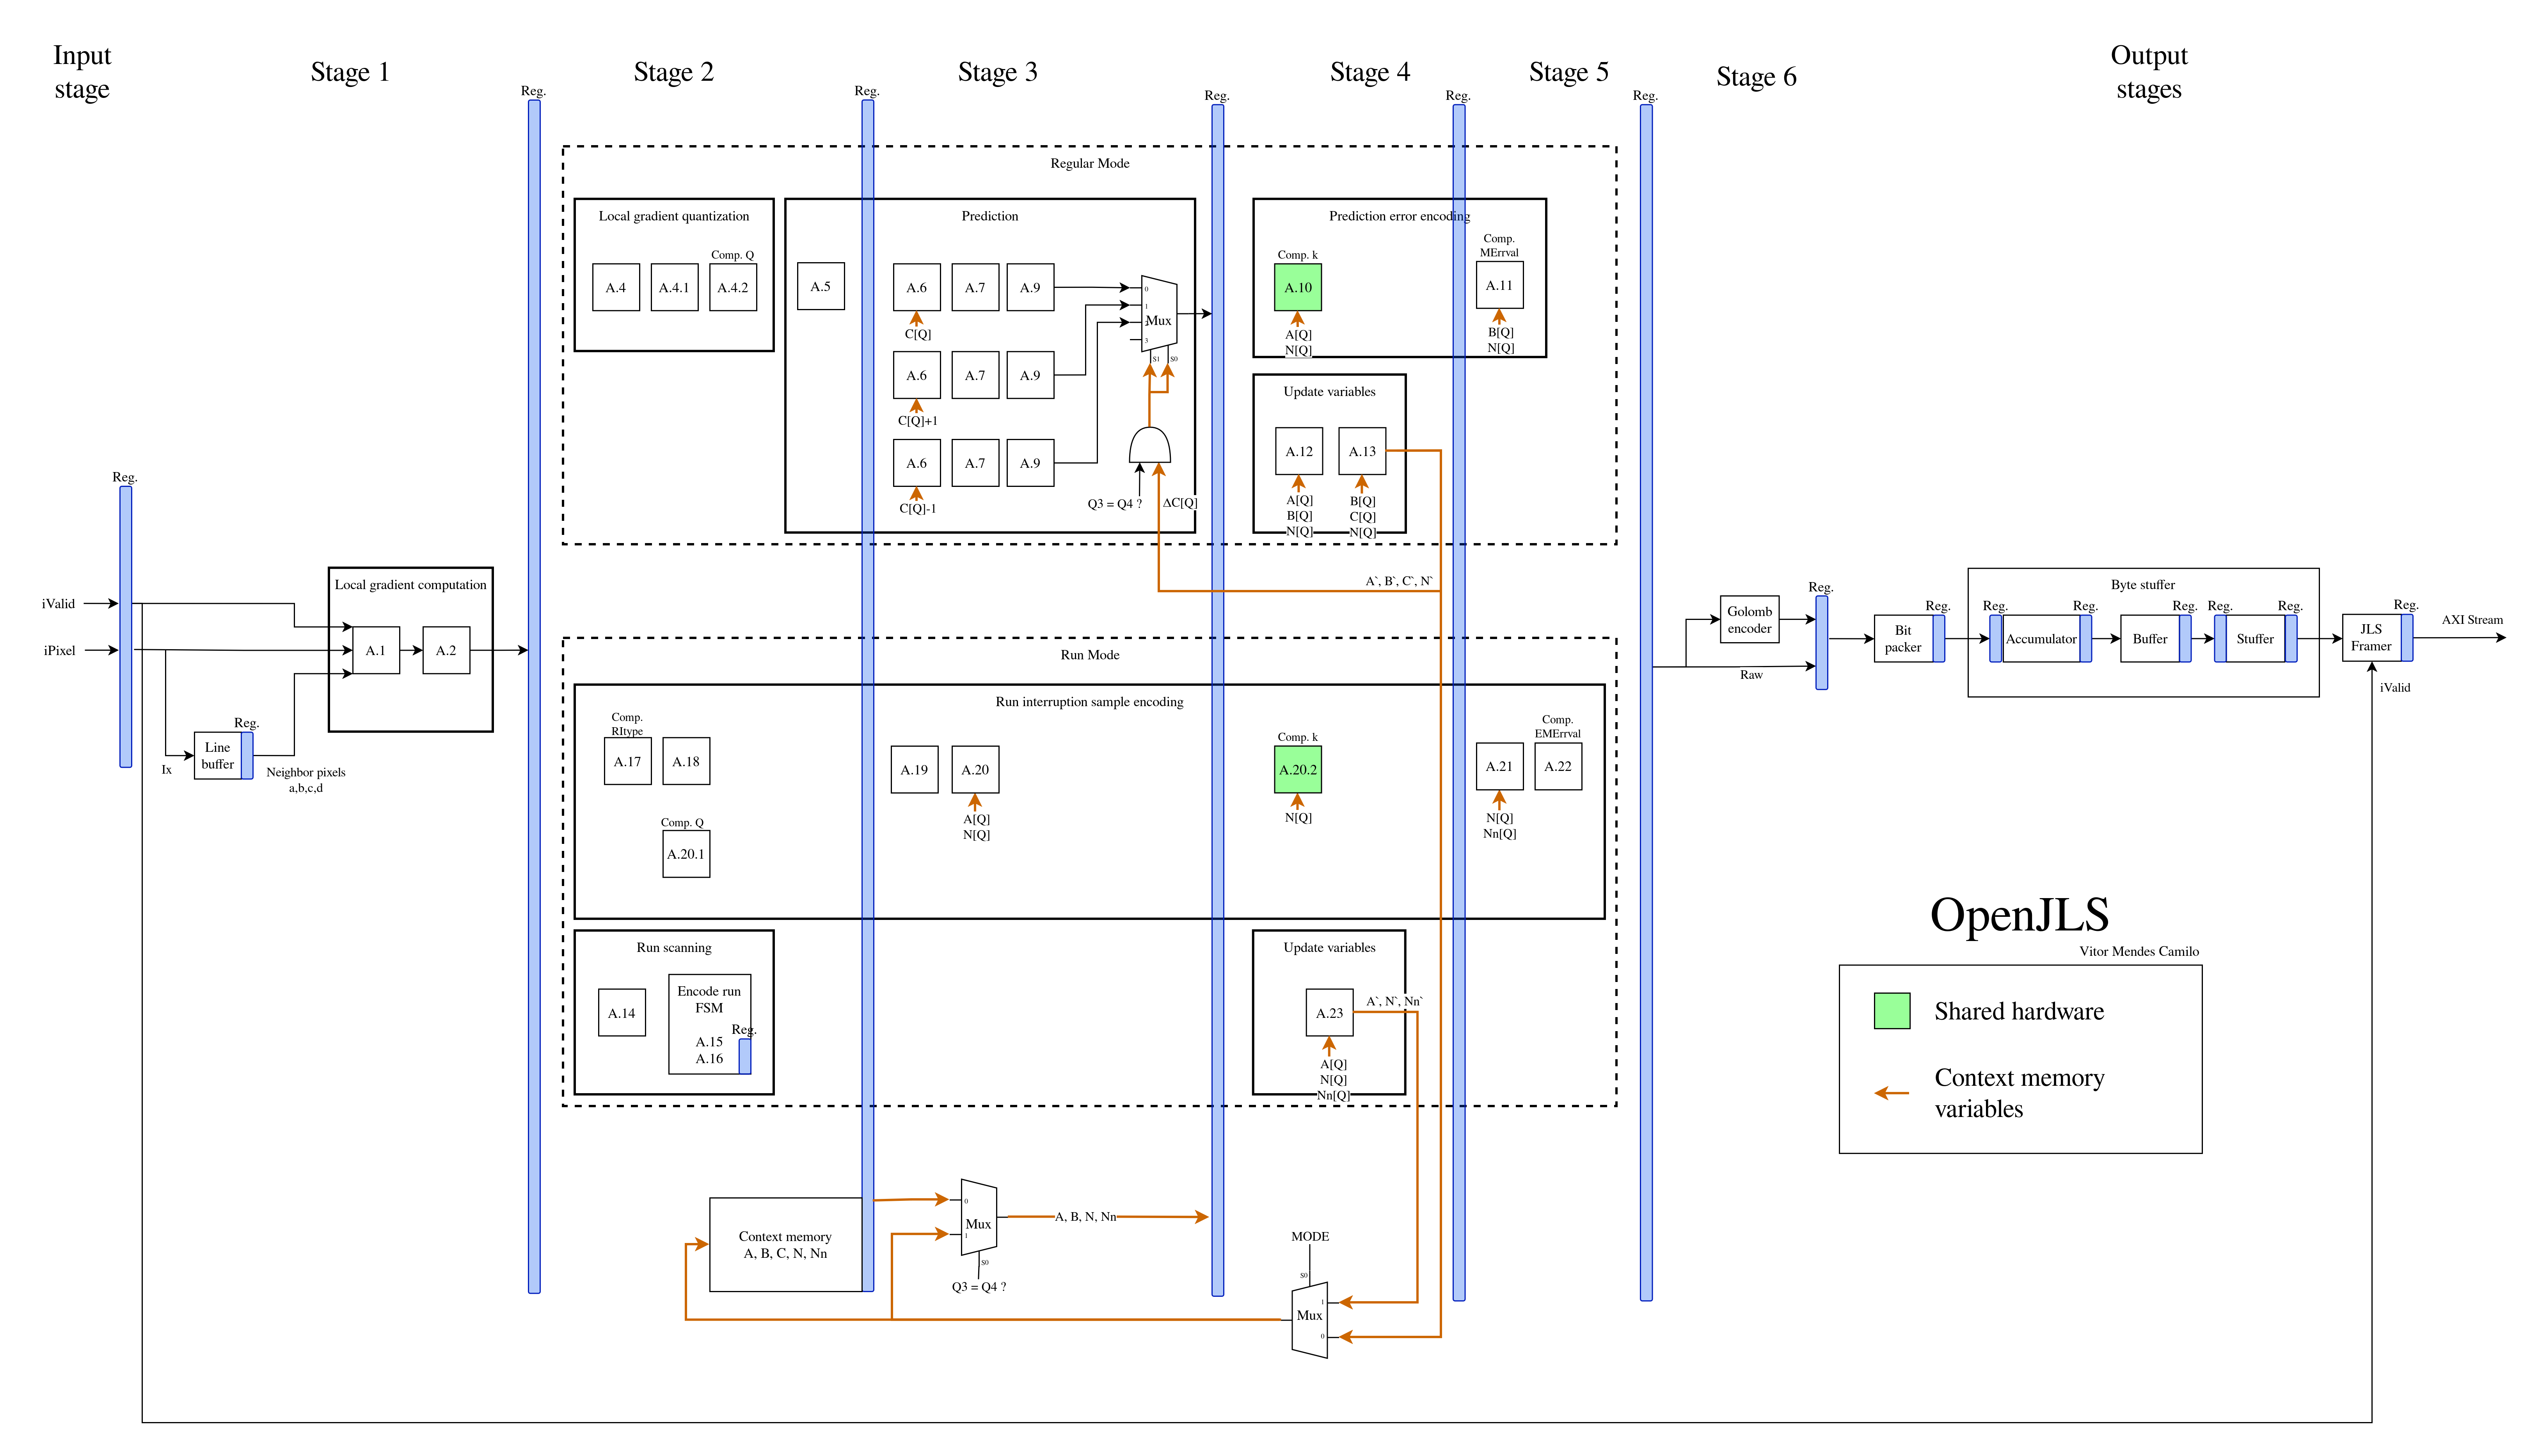
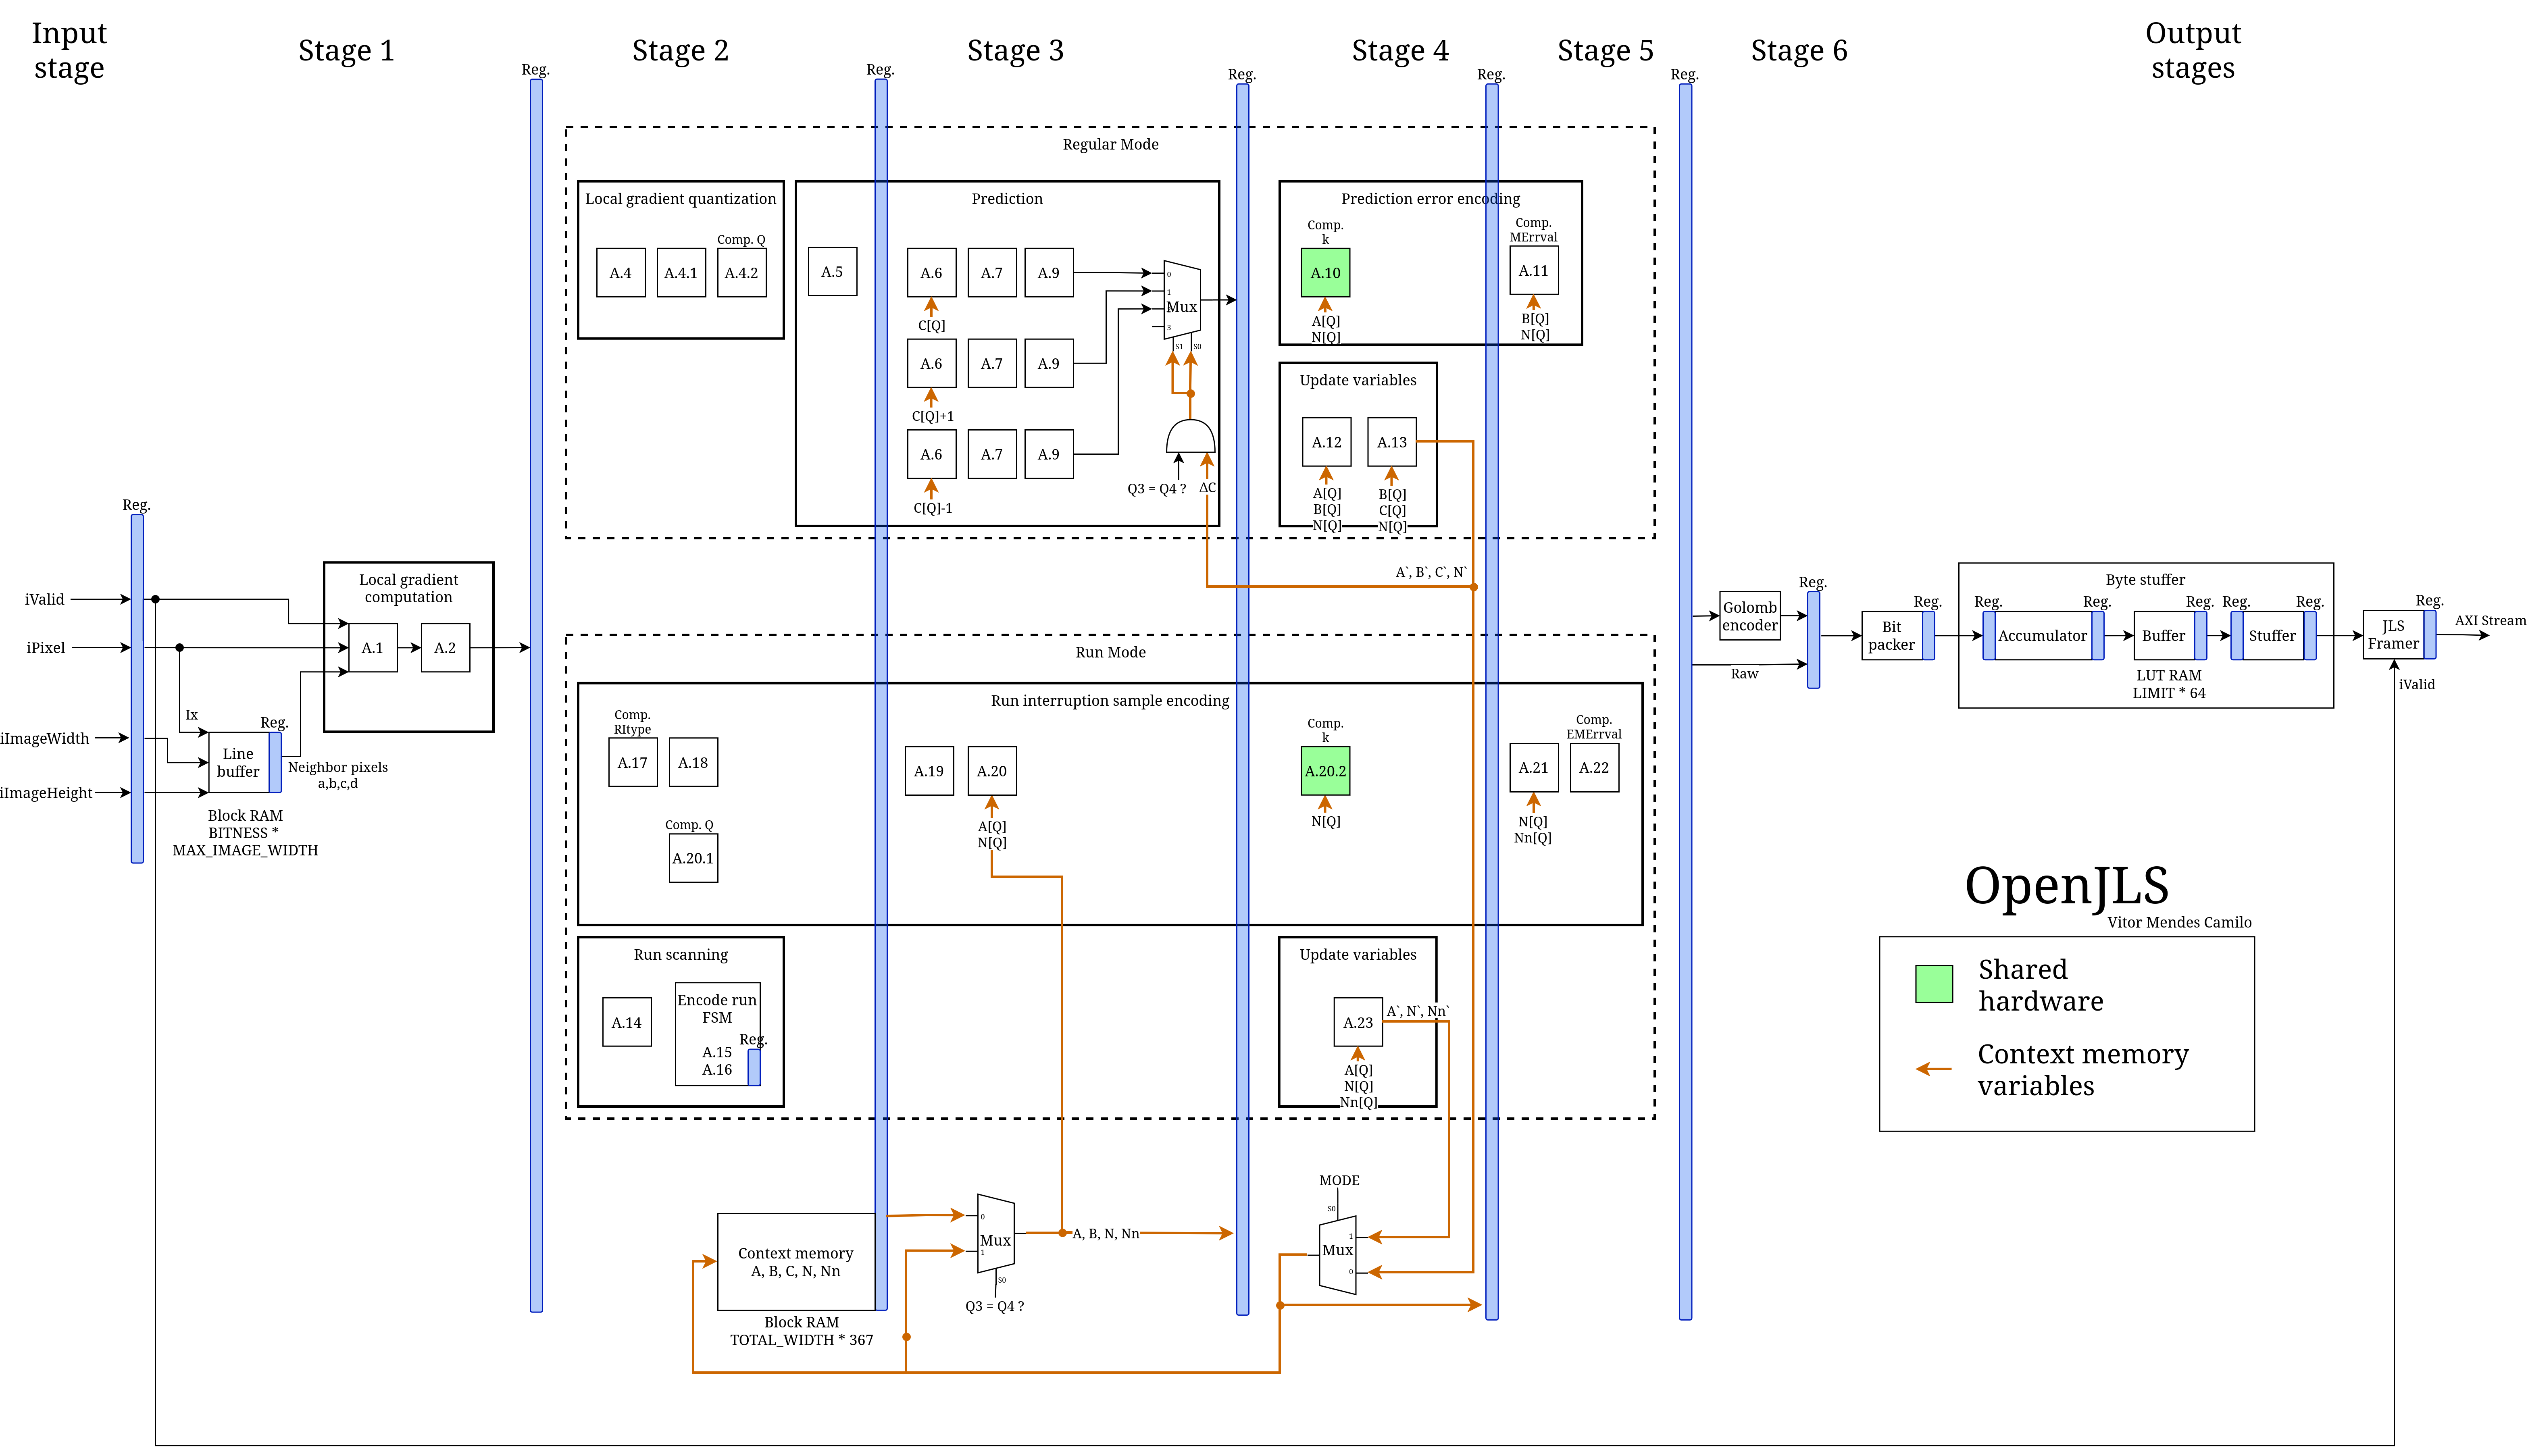
Add LaTeX datasheet and document the openjls_top interface
The datasheet is the v1.0 user-facing integration reference; README gains
a summary Interface section that links to it for the full detail.

diff --git a/Docs/datasheet/openjls_datasheet.tex b/Docs/datasheet/openjls_datasheet.tex
@@ -1,0 +1,270 @@
+% OpenJLS datasheet. Build: tectonic openjls_datasheet.tex
+\documentclass[10pt,a4paper]{article}
+
+\usepackage[margin=22mm]{geometry}
+\usepackage{amsmath}
+\usepackage{graphicx}
+\usepackage{booktabs}
+\usepackage{array}
+\usepackage{tabularx}
+\usepackage{xcolor}
+\usepackage{enumitem}
+\usepackage{fancyhdr}
+\usepackage{listings}
+\usepackage{tikz}
+\usepackage{tikz-timing}
+\usepackage[hidelinks]{hyperref}
+
+\graphicspath{{../Images/}}
+\setlist{nosep,leftmargin=1.4em}
+\newcolumntype{C}{>{\centering\arraybackslash}m{0.10\textwidth}}
+\renewcommand{\arraystretch}{1.15}
+
+\definecolor{ojblue}{RGB}{0,80,140}
+
+\lstset{
+  basicstyle=\ttfamily\footnotesize,
+  keywordstyle=\color{ojblue}\bfseries,
+  commentstyle=\color{gray},
+  language=VHDL,
+  showstringspaces=false,
+  frame=single,
+  columns=fullflexible,
+}
+
+\pagestyle{fancy}
+\fancyhf{}
+\lhead{\textbf{OpenJLS} — JPEG-LS Encoder IP}
+\rhead{Datasheet}
+\lfoot{\small v1.0}
+\rfoot{\small \thepage}
+\renewcommand{\headrulewidth}{0.4pt}
+
+\setcounter{secnumdepth}{1}
+
+\begin{document}
+
+\begin{center}
+  {\LARGE\bfseries OpenJLS}\\[2pt]
+  {\large JPEG-LS Lossless Encoder IP Core --- Datasheet}\\[2pt]
+  {\small Version 1.0 \quad\textbullet\quad Single-component, fully pipelined, vendor-agnostic VHDL}
+\end{center}
+
+\vspace{4pt}
+
+%======================================================================
+\section{Overview}
+OpenJLS is a JPEG-LS (ISO/IEC 14495-1 / ITU-T T.87) lossless encoder for FPGAs.
+It encodes single-component (grayscale) images at one pixel per clock with no
+external memory, streaming a standards-compliant JPEG-LS bitstream out over
+AXI4-Stream.
+
+\begin{tabularx}{\textwidth}{@{}>{\bfseries}l X@{}}
+  \toprule
+  Standard      & JPEG-LS lossless (ISO/IEC 14495-1, ITU-T T.87) \\
+  Components    & Single (grayscale) \\
+  Pixel depth   & 8--16 bits (\texttt{BITNESS}) \\
+  Image size    & Up to $65535\times65535$ px, minimum $4\times1$ \\
+  Throughput    & 1 pixel / clock \\
+  Latency       & 14 clock cycles \\
+  $f_{max}$     & $\sim$250\,MHz (Xilinx UltraScale+ \texttt{xczu7eg-1}, RTL-only) \\
+  Interface     & AXI4-Stream input (pixels) and output (bitstream) \\
+  Memory        & On-chip line buffer, one image row; no external RAM \\
+  Resources     & $\sim$8k LUT, $\sim$2.1k FF + BRAM scaling with image width \\
+  Portability   & Vendor-agnostic VHDL (open-logic primitives) \\
+  \bottomrule
+\end{tabularx}
+
+%======================================================================
+\section{Functional description}
+The core is a fully pipelined encoder with a latency of 14 clock cycles: an
+input register, six processing stages (gradient computation, context modeling,
+MED prediction with bias correction, Golomb--Rice / run-length coding) and
+three internally registered output stages (bit packer, byte stuffer, framer).
+End-of-image is derived internally from the configured dimensions; the output
+bitstream is self-delimiting.
+
+\begin{center}
+  \includegraphics[width=0.92\textwidth]{OpenJLS_arch.png}
+\end{center}
+
+%======================================================================
+\section{Generics}
+\begin{tabularx}{\textwidth}{@{}l C X@{}}
+  \toprule
+  \textbf{Generic} & \textbf{Range} & \textbf{Description} \\
+  \midrule
+  \texttt{BITNESS}          & 8--16       & Pixel bit depth. \\
+  \texttt{MAX\_IMAGE\_WIDTH}  & 4--65535    & Largest width supported; sets line-buffer depth. \\
+  \texttt{MAX\_IMAGE\_HEIGHT} & 1--65535    & Largest height supported. \\
+  \texttt{OUT\_WIDTH}        & 48--1024    & Output bus width in bits; multiple of 8. \\
+  \bottomrule
+\end{tabularx}
+
+%======================================================================
+\section{Signals}
+All ports are synchronous to the rising edge of \texttt{iClk}. The streaming
+ports map one-to-one onto AXI4-Stream as shown.
+
+\begin{tabularx}{\textwidth}{@{}l c l l X@{}}
+  \toprule
+  \textbf{Port} & \textbf{Dir} & \textbf{Width} & \textbf{AXIS} & \textbf{Role} \\
+  \midrule
+  \texttt{iClk}        & in  & 1                       & ---             & Clock. \\
+  \texttt{iRst}        & in  & 1                       & ---             & Synchronous reset, active high; latches dimensions. \\
+  \texttt{iImageWidth} & in  & $\lceil\log_2(\mathrm{MAX\_W}{+}1)\rceil$ & --- & Image width, pixels (configuration). \\
+  \texttt{iImageHeight}& in  & $\lceil\log_2(\mathrm{MAX\_H}{+}1)\rceil$ & --- & Image height, pixels (configuration). \\
+  \texttt{iValid}      & in  & 1                       & \texttt{TVALID} & Pixel valid. \\
+  \texttt{iPixel}      & in  & \texttt{BITNESS}        & \texttt{TDATA}  & Pixel data. \\
+  \texttt{oReady}      & out & 1                       & \texttt{TREADY} & Input ready. \\
+  \texttt{oData}       & out & \texttt{OUT\_WIDTH}     & \texttt{TDATA}  & Bitstream beat. \\
+  \texttt{oValid}      & out & 1                       & \texttt{TVALID} & Output valid. \\
+  \texttt{oKeep}       & out & \texttt{OUT\_WIDTH/8}   & \texttt{TKEEP}  & Valid-byte mask on final beat. \\
+  \texttt{oLast}       & out & 1                       & \texttt{TLAST}  & End of image. \\
+  \texttt{iReady}      & in  & 1                       & \texttt{TREADY} & Downstream ready. \\
+  \bottomrule
+\end{tabularx}
+
+\noindent The input omits \texttt{TLAST} (optional in AXI4-Stream); house-style
+port names map directly onto \texttt{s\_axis}/\texttt{m\_axis} for a thin wrapper.
+
+%======================================================================
+\section{Timing and protocol}
+
+\textbf{Pixel input.} A pixel transfers on every cycle where
+\texttt{iValid} and \texttt{oReady} are both high. The core asserts
+\texttt{oReady} continuously and deasserts it only when the output FIFO fills
+under downstream backpressure.
+
+\begin{center}
+\begin{tikztimingtable}[timing/slope=0.1,xscale=1.7]
+  iClk    & 8{C}        \\
+  iPixel  & D{P0} D{P1} 3D{P2} D{P3} D{P4} D{P5} \\
+  iValid  & 8H          \\
+  oReady  & HHLLHHHH     \\
+\end{tikztimingtable}
+\end{center}
+\noindent \texttt{P2} is held flat across the stall and accepted when
+\texttt{oReady} returns high; no pixel is dropped while \texttt{oReady} is low.
+
+\textbf{Reset and configuration.} The image dimensions are sampled while
+\texttt{iRst} is high: present \texttt{iImageWidth}/\texttt{iImageHeight} and
+hold them stable across a reset pulse, and the values latch into the internal
+\texttt{sImageWidth}/\texttt{sImageHeight} registers on the next clock. Pulse
+reset again before streaming a new resolution. Tying the dimension ports to
+\texttt{0} selects the \texttt{MAX\_IMAGE\_*} maxima; an out-of-range value
+falls back to the maximum with a simulation warning.
+
+\begin{center}
+\begin{tikztimingtable}[timing/slope=0.1,xscale=1.7]
+  iClk         & 7{C}          \\
+  iImageWidth  & D{W0} 6D{W1}  \\
+  iImageHeight & D{H0} 6D{H1}  \\
+  iRst         & LLLLHLL        \\
+  sImageWidth  & 5D{W0} 2D{W1} \\
+  sImageHeight & 5D{H0} 2D{H1} \\
+\end{tikztimingtable}
+\end{center}
+\noindent The new size (\texttt{W1}/\texttt{H1}) is driven for several cycles,
+then \texttt{iRst} pulses high; the dimensions register one clock after the
+reset is sampled.
+
+\textbf{Output.} Beats appear on \texttt{oData}/\texttt{oValid} subject to
+\texttt{iReady}; \texttt{oLast} marks the final beat and \texttt{oKeep} flags
+its valid bytes. Pipeline latency is 14 clock cycles.
+
+%======================================================================
+\section{Resources and performance}
+Characterized on Xilinx Zynq UltraScale+ \texttt{xczu7eg-fbvb900-1-e}
+(speed grade $-1$), Vivado 2025.2, 12-bit, RTL-only (no floorplanning).
+$f_{max}$ is true fmax (over-constrained until timing fails). At one
+pixel/clock, $\sim$250\,MHz is $\sim$250\,Mpixel/s.
+
+\begin{minipage}[t]{0.49\textwidth}
+\centering
+\textbf{$f_{max}$ (MHz) vs image width}\\[2pt]
+\begin{tabular}{@{}r r r r@{}}
+  \toprule
+  Width & Default & Perf.Exp. & Cong.Spread \\
+  \midrule
+  4096  & 243.9 & 238.7 & \textbf{258.0} \\
+  8192  & 240.0 & 243.0 & \textbf{252.8} \\
+  12288 & 243.5 & \textbf{248.5} & 247.9 \\
+  16384 & 235.9 & 244.1 & \textbf{256.7} \\
+  32768 & 232.2 & 212.8 & \textbf{247.5} \\
+  \bottomrule
+\end{tabular}
+\end{minipage}\hfill
+\begin{minipage}[t]{0.49\textwidth}
+\centering
+\textbf{Resources vs image width}\\[2pt]
+\begin{tabular}{@{}r r r r@{}}
+  \toprule
+  Width & LUT & FF & BRAM \\
+  \midrule
+  4096  & 8048 & 2059 & 1.5 \\
+  8192  & 7930 & 2062 & 3.0 \\
+  12288 & 7855 & 2087 & 4.5 \\
+  16384 & 7877 & 2089 & 5.5 \\
+  32768 & 7990 & 2095 & 11.0 \\
+  \bottomrule
+\end{tabular}
+\end{minipage}
+
+\vspace{6pt}
+\noindent Logic is essentially constant with image size; only the line-buffer
+BRAM scales with width and pixel depth.
+
+%======================================================================
+\section{Integration example}
+\begin{lstlisting}
+u_enc : entity work.openjls_top
+  generic map (
+    BITNESS          => 8,
+    MAX_IMAGE_WIDTH  => 4096,
+    MAX_IMAGE_HEIGHT => 4096,
+    OUT_WIDTH        => 64 )
+  port map (
+    iClk         => clk,
+    iRst         => rst,                  -- hold high while dims are stable
+    iImageWidth  => img_w,                -- latched on reset
+    iImageHeight => img_h,
+    iValid       => px_valid,             -- pixel stream (AXIS slave)
+    iPixel       => px_data,
+    oReady       => px_ready,
+    oData        => m_tdata,              -- bitstream (AXIS master)
+    oValid       => m_tvalid,
+    oKeep        => m_tkeep,
+    oLast        => m_tlast,
+    iReady       => m_tready );
+\end{lstlisting}
+
+%======================================================================
+\section{Conformance and verification}
+Verified by simulation (NVC) with a layered suite: per-module OSVVM tests
+against T.87-derived reference models, top-level control-plane stress with
+requirements tracking, embedded PSL protocol contracts, 99\%+ NVC statement
+coverage, and byte-exact comparison against the CharLS reference encoder over
+287 images. The OSVVM stress test and a golden-model subset are re-run on the
+post-synthesis gate-level netlist. Live results:
+\url{https://vitormendesc.github.io/OpenJLS/}.
+
+%======================================================================
+\section*{Revision history}
+\begin{tabular}{@{}l l l@{}}
+  \toprule
+  \textbf{Version} & \textbf{Date} & \textbf{Notes} \\
+  \midrule
+  1.0 & 2026-06 & Initial release. \\
+  \bottomrule
+\end{tabular}
+
+\vspace{6pt}
+\noindent\textbf{References.}
+ITU-T T.87 / ISO/IEC 14495-1;
+Y.\,M.\,Mert, \emph{Key Architectural Optimizations for Hardware Efficient
+JPEG-LS Encoder}, IEEE 2018;
+\href{https://github.com/team-charls/charls}{CharLS};
+\href{https://github.com/open-logic/open-logic}{open-logic}.
+
+\end{document}

diff --git a/README.md b/README.md
@@ -77,6 +77,47 @@ The hardware architecture is based on the optimizations in Mert's [*Key Architec
 
 ---
 
+## Interface
+
+The core is a single entity, `openjls_top`, configured by generics and driven through a pixel-in / bitstream-out streaming interface.
+
+### Generics
+
+| Generic | Range | Default | Description |
+|---|:--:|:--:|---|
+| `BITNESS` | 8–16 | 12 | Pixel bit depth. |
+| `MAX_IMAGE_WIDTH` | 4–65535 | 4096 | Largest image width supported; sets the on-chip line-buffer depth. |
+| `MAX_IMAGE_HEIGHT` | 1–65535 | 4096 | Largest image height supported. |
+| `OUT_WIDTH` | 48–1024 | 64 | Output data-bus width in bits (multiple of 8). |
+
+### Ports
+
+| Port | Dir | Width | Role |
+|---|:--:|---|---|
+| `iClk` | in | 1 | Clock; whole core is synchronous to its rising edge. |
+| `iRst` | in | 1 | Synchronous reset, active high. Also latches the image dimensions (see below). |
+| `iImageWidth` | in | `⌈log2(MAX_IMAGE_WIDTH+1)⌉` | Image width in pixels (configuration). |
+| `iImageHeight` | in | `⌈log2(MAX_IMAGE_HEIGHT+1)⌉` | Image height in pixels (configuration). |
+| `iValid` | in | 1 | Input pixel valid — AXI4-Stream `TVALID`. |
+| `iPixel` | in | `BITNESS` | Input pixel — AXI4-Stream `TDATA`. |
+| `oReady` | out | 1 | Input ready — AXI4-Stream `TREADY`. |
+| `oData` | out | `OUT_WIDTH` | Output bitstream beat — AXI4-Stream `TDATA`. |
+| `oValid` | out | 1 | Output valid — AXI4-Stream `TVALID`. |
+| `oKeep` | out | `OUT_WIDTH/8` | Valid-byte mask on the final beat — AXI4-Stream `TKEEP`. |
+| `oLast` | out | 1 | End of image — AXI4-Stream `TLAST`. |
+| `iReady` | in | 1 | Output ready / downstream backpressure — AXI4-Stream `TREADY`. |
+
+### Integration notes
+
+- **Pixel stream.** Feed pixels **row-major**, one per accepted handshake (`iValid and oReady`), right-justified in `iPixel`. The encoder sustains one pixel per clock and deasserts `oReady` *only* under downstream backpressure (`iReady` low).
+- **Image dimensions are configuration, sampled while `iRst` is high** — hold them stable and pulse reset before streaming a new resolution. Leaving them unwired (`0`) selects the `MAX_IMAGE_*` maxima; an out-of-range value falls back to the maximum with a simulation warning. Minimum image is **4 × 1**.
+- **No input `TLAST`.** End-of-image is derived internally from the dimensions, so the input omits `TLAST` (which AXI4-Stream permits). The *output* stream is self-delimiting: `oLast` marks the last beat and `oKeep` flags its valid bytes.
+- **Naming.** Port names follow the project's house style; the signals map 1:1 onto AXI4-Stream as noted above, so a conventional-naming `s_axis`/`m_axis` wrapper can be layered on top without touching the core.
+
+> Full signal timing, the reset/configuration sequence, latency figures, and a worked instantiation example live in the **datasheet** (`Docs/datasheet/`).
+
+---
+
 ## Performance & Resources
 
 Characterized on a Xilinx Zynq UltraScale+ `xczu7eg-fbvb900-1-e` (speed grade −1, slowest), Vivado 2025.2, 12-bit grayscale. Frequencies are *true fmax* — read by over-constraining the clock until the design failed timing. Results are RTL-only, no floorplanning or vendor-specific optimizations, and vary with device, tool version, and implementation strategy; treat them as representative, not guaranteed. At one pixel/clock, ~250 MHz is ~250 Mpixel/s.